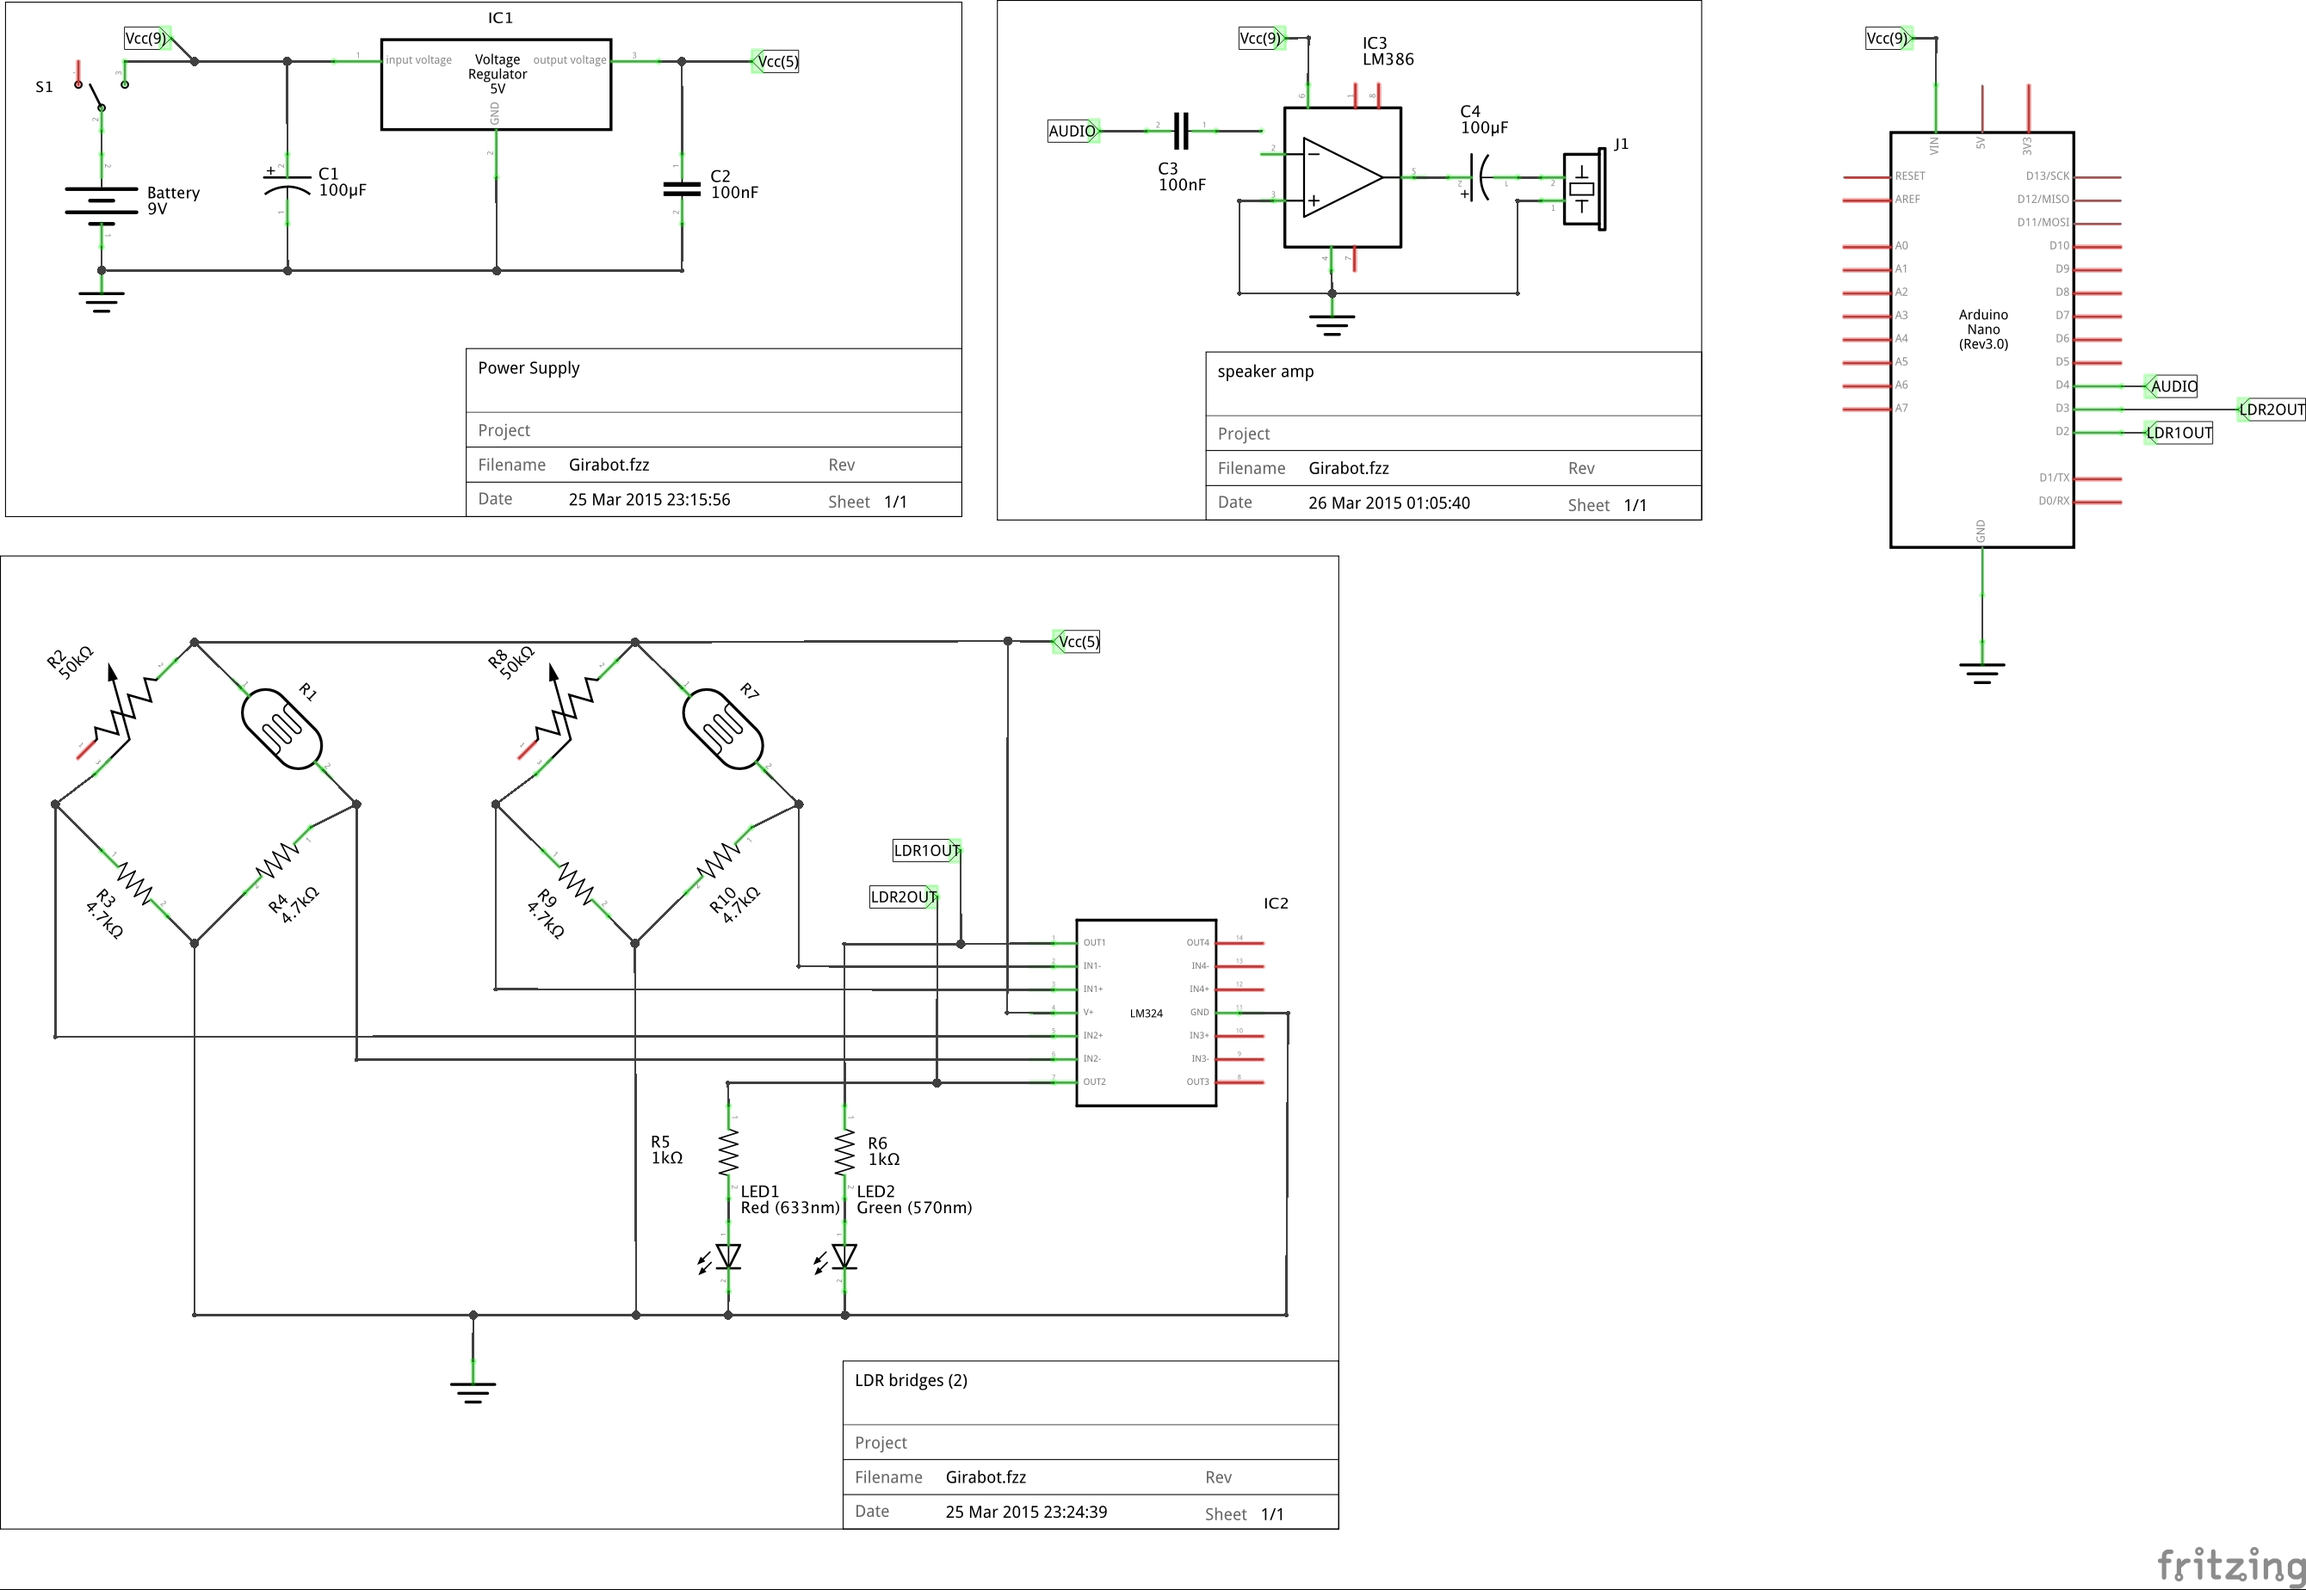
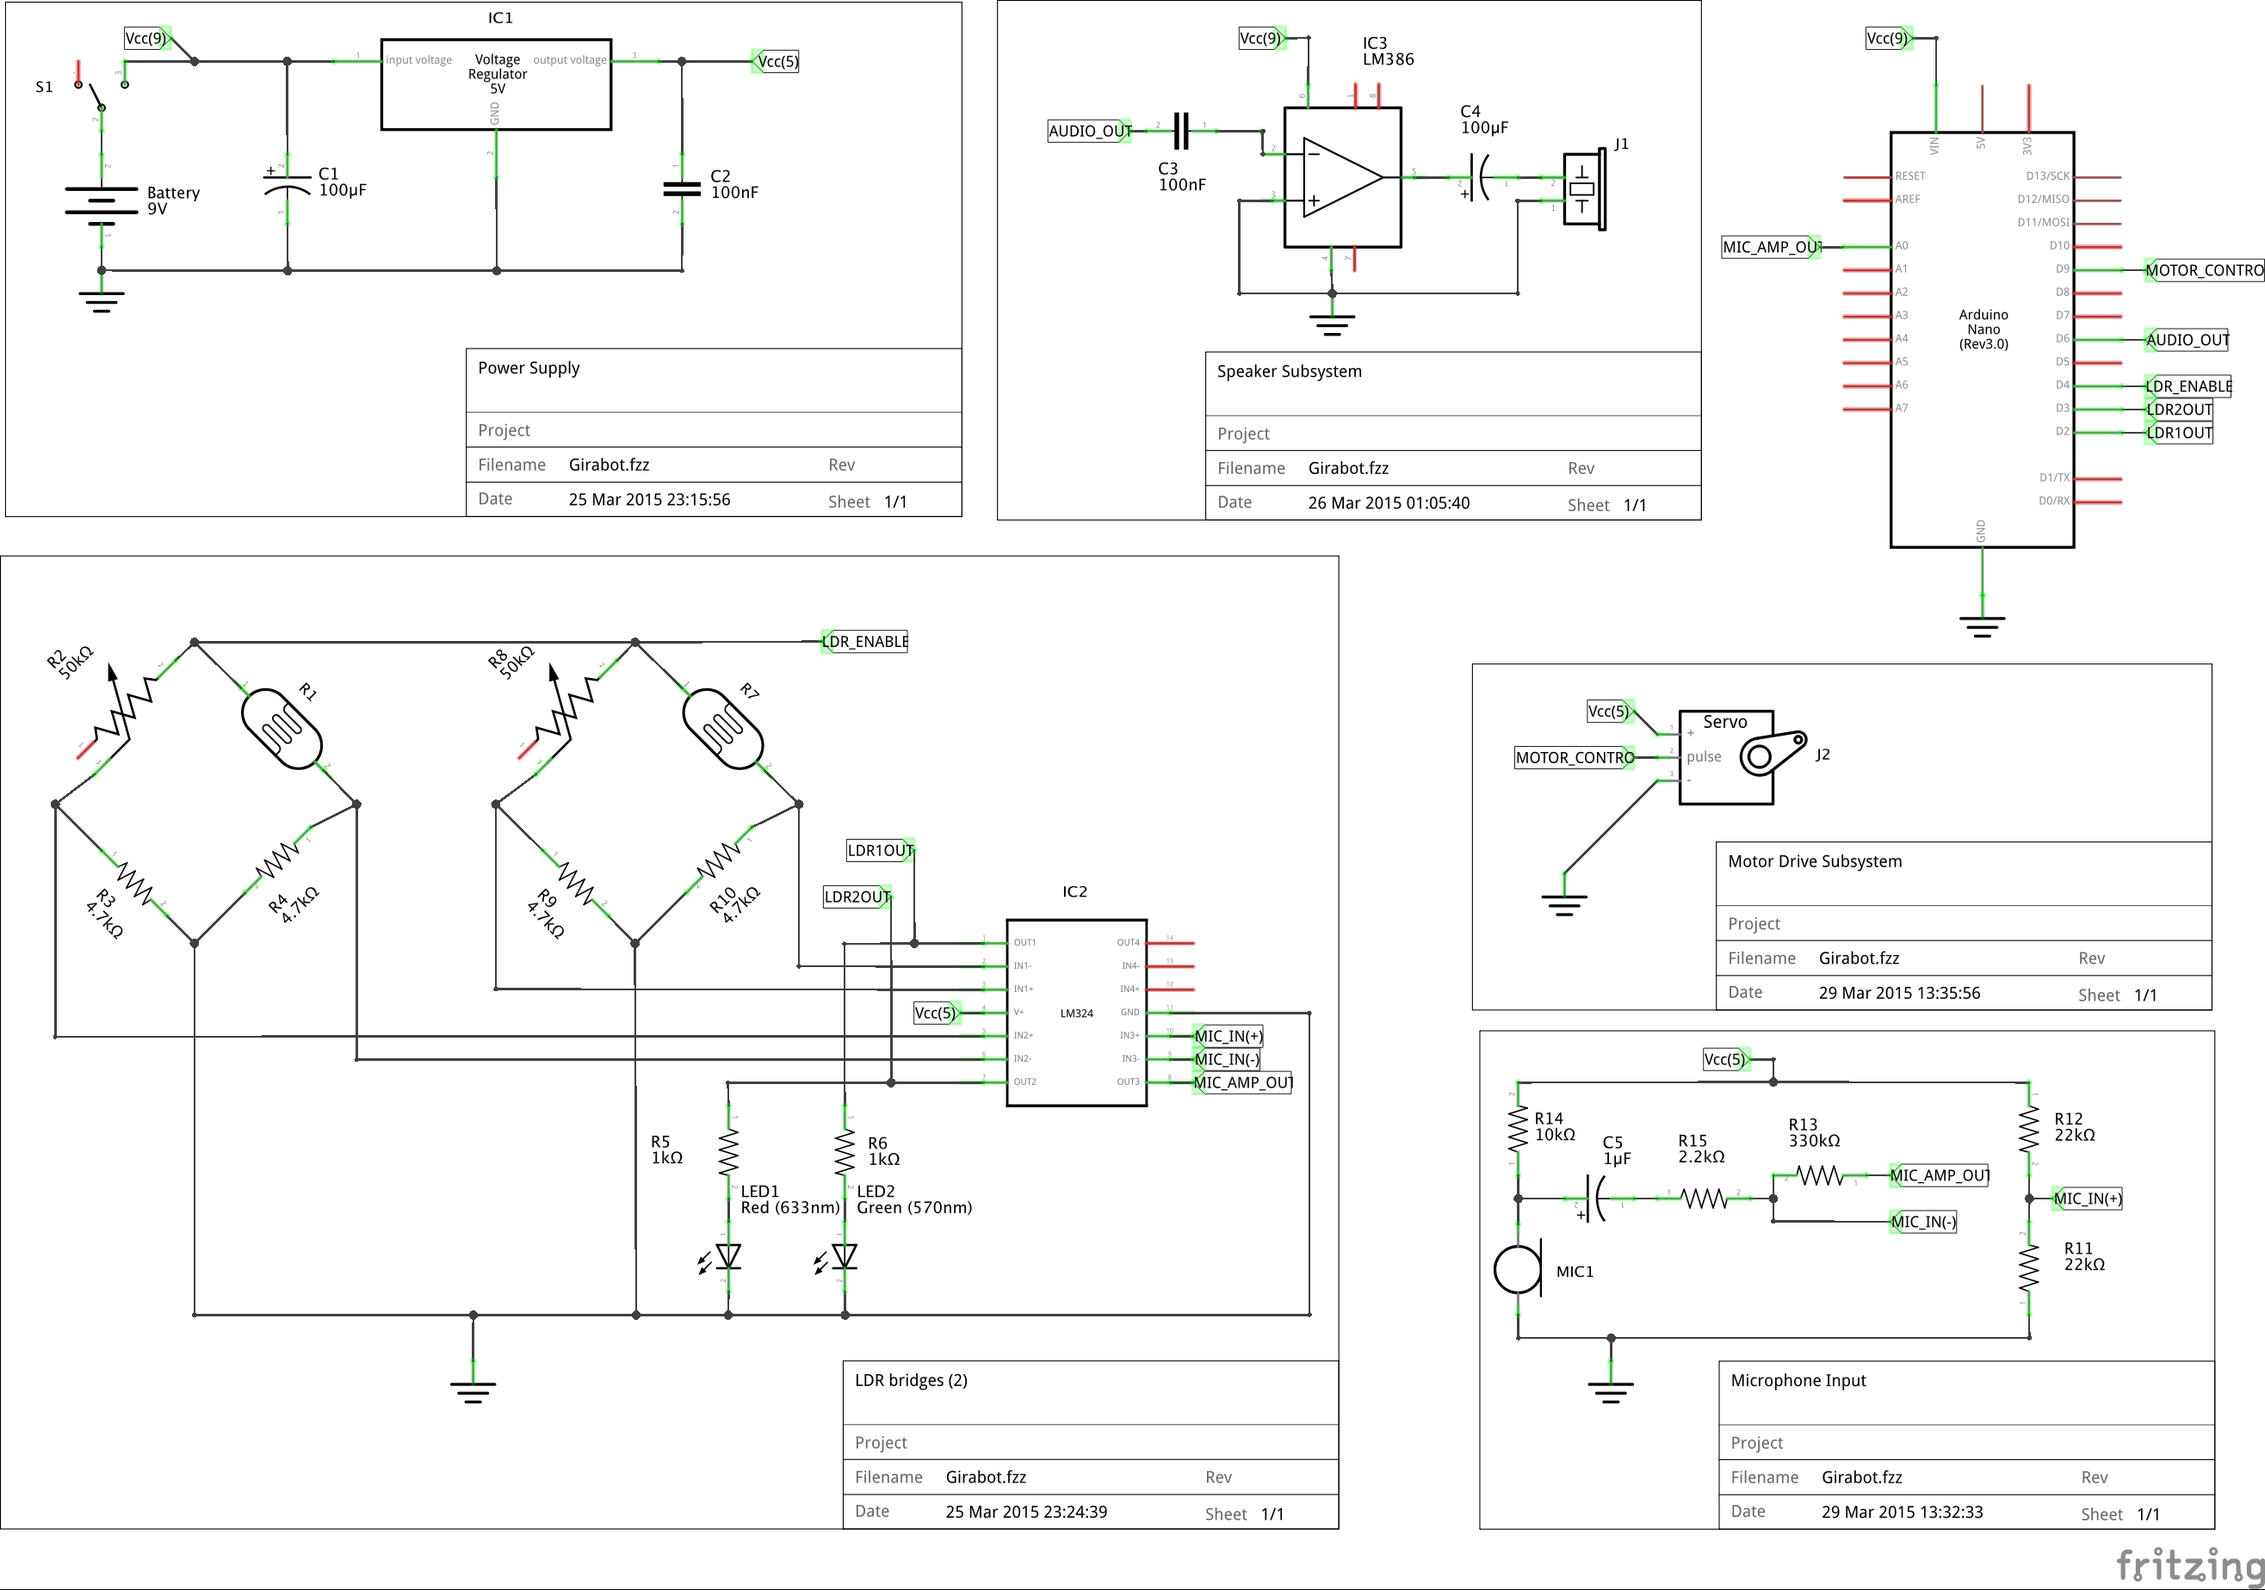
[Girabot] update schematic

diff --git a/Girabot/README.md b/Girabot/README.md
@@ -61,6 +61,29 @@ When it detects a loud noise (such as a clap or whistle), it will unlock a "spec
 * [ElectretADC](../playground/ElectretADC) - plot the raw and aplified electret signal (LM324 preamp)
 * [ElectretTrigger](../playground/ElectretTrigger) - LM324-amplified electret input triggers a tune when over audio threshold
 
+### Implementation Notes
+
+The electret microphone is biased to about 1V, and the AC component of the signal tapped via C1.
+
+The microphone signal is then fed to the LM324 setup as a subtracting amplifier:
+
+* positive input is set to Vcc/2 = 2.5V
+* microphone signal fed to negative input
+
+    Vo = G1 * Vmic + G2 * Vcc
+    G1 = -R2/R1 = -330kΩ/2.2kΩ = -150
+    G2 = (R1 + R2)/R1 * R4/(R3 + R4) = (2.2kΩ + 330kΩ)/2.2kΩ * 22kΩ/(22kΩ + 22kΩ) = 75.5
+
+When no microphone signal, we are
+[reading Vcc/2](http://www.wolframalpha.com/input/?i=5*%282.2k%CE%A9+%2B+330k%CE%A9%29%2F2.2k%CE%A9+*+22k%CE%A9%2F%2822k%CE%A9+%2B+22k%CE%A9%29+-+2.5+*330k%CE%A9%2F2.2k%CE%A9)
+at the output.
+
+But it is really sensitive to changes in the microphone signal. Basically every
+[1mV results in a 150mV change in the output](http://www.wolframalpha.com/input/?i=0.001+*330k%CE%A9%2F2.2k%CE%A9).
+
+The amplified signal is read by the Arduino, and when the signal exceeds a threshold, the Arduino triggers a tune played on the piezo speaker.
+
+
 
 ## Use-case: Girabot beeps a buzzer audibly
 
